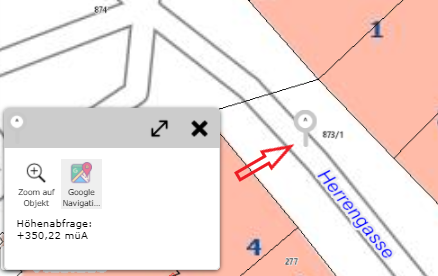
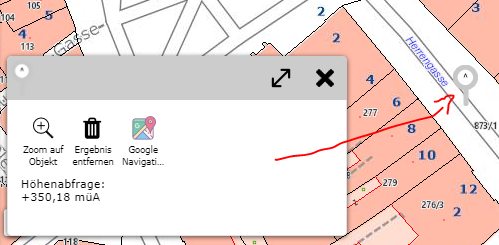
commit

diff --git a/de/webgis-manual/source/mapviewer/tools/clickbubble/index.rst b/de/webgis-manual/source/mapviewer/tools/clickbubble/index.rst
@@ -1,0 +1,60 @@
+Click Bubble
+============
+
+Kurzbeschreibung
+----------------
+
+Anstatt in die Karte zu klicken, ziehe die "Bubble" in die Karte an die gewünschte Position.
+
+
+Detailierte Beschreibung
+------------------------
+
+Manche Werkzeuge erfordern einen Klick in die Karte, z.B. Identifizieren und Auswählen, Zeichnen, usw.
+Da es auf mobilen Geräten mit Touch-Bedienung nicht immer leicht ist an genau die gewünschte Position zu klicken, steht dieses Gadget zur Verfügung.
+Es hilft außerdem die Bedienbarkeit der Karte zu verbessern, da versehentliche Klicks in die Karte bei Zoomen oder Verschieben nicht sofort eine Aktion auslösen.
+        
+.. note::
+    Solange die "Bubble" aktiv ist, wird durch einen Klick in die Karte keine Aktion ausgeführt. Alle Gesten dienen so nur der Navigation in der Karte.
+        
+
+Um das Werkzeug zu verwenden, muss die "Bubble" an die gewünschte Stelle gezogen werden. Sobald die "Bubble" grün wird, ist sie aktiv.
+Das Werkzeug wird nach dem Loslassen direkt an dem Punkt ausgelöst, auf den die rechte obere Spitze zeigt.
+    
+.. image:: img/clickbubble1.png
+
+
+Nach dem Auslösen, kehrt die "Bubble" wieder an ihre Ausgangslage zurück.
+    
+Während des Ziehens werden links noch zwei mit einen "X" gekennzeichneten Bereiche sichtbar.
+        
+.. note::
+    Auf mobilen Geräten mit kleinen Displays kann es sein, dass der graue Bereich aus Platzgründen nicht zur Verfügung steht.
+
+.. image:: img/clickbubble2.png
+
+
+Zieht man die "Bubble" auf einen dieser Bereiche, ändert diese sofort ihre Farbe. Die Farben haben dabei folgende Bedeutungen:
+    
+* **Oranger Bereich** 
+
+    Die "Bubble" soll wieder in den Ruhebereich zurückkehren. Das kann beispielsweise wünschenswert sein, wenn das Ziehen ein Versehen war und keine Aktion ausgelöst werden soll.
+    Legt man die "Bubble" im Orangen Bereich ab, wird keine Aktion ausgelöst.
+
+* **Grauer Bereich**
+
+    Zieht man die "Bubble" in diesen Bereich, wird sie deaktiviert. Wenn die "Bubble" deaktiviert ist, kann ein Werkzeug auch über einen Klick in die Karte ausgelöst werden.
+    Das kann wünschenswert sein, wenn man neben der Gestensteuerung auf dem Gerät auch noch ein weiteres Eingabemedium wie Maus oder Stift verwenden möchte.
+    Will man die "Bubble" wieder aktivieren, kann man sie aus dem grauen Bereich einfach in die Karte ziehen (und so eine Aktion auslösen)
+    oder die "Bubble" in den orangen Bereich ziehen (keine Aktion).
+
+
+Die "Bubble" erscheint auch bei den Zeichen Werkzeugen. Damit können die Stützpunkte einzeln durch Ziehen der "Bubble" gesetzt werden.
+Zusätzlich erscheint bei den Zeichen Werkzeugen noch eine zweite "Bubble" für das Kontextmenü.
+    
+.. image:: img/clickbubble3.png
+
+Die zweite "Bubble" öffnet das Kontextmenü für den (Zeichen)Sketch und entspricht somit der rechten Maustaste. Da es oft entscheidend ist, an welcher Stelle man das Kontextmenü öffnet,
+kann man auch diese "Bubble" an die gewünschte Stelle ziehen, um das Menü zu öffnen. Will man beispielsweise einen Stützpunkt löschen, zieht man die "Bubble" auf den Stützpunkt und wählt
+im Menü "Vertex löschen" aus.
+    

diff --git a/de/webgis-manual/source/mapviewer/tools/map/liveshare/procedure.rst b/de/webgis-manual/source/mapviewer/tools/map/liveshare/procedure.rst
@@ -15,6 +15,10 @@ Zuerst muss der Session Eigentümer eine neue Session beginnen.
 
 Nach dem Beginnen der Session öffnet sich ein Fenster, welches Möglichkeiten zum Teilen der Session bietet.
 
+Außerdem erscheint rechts unten ein Infofenster zur aktuellen Liveshare Session.
+
+.. image:: img/liveshare4.png
+
 
 Session teilen
 --------------
@@ -35,21 +39,41 @@ Es gibt verschiedene Möglichkeiten die Liveshare Session zu teilen:
 
 * **Twitter:** Weiterleitung an Twitter.
 
-Rechts unten erscheint ein Infofenster zur aktuellen Liveshare Session.
-
-.. image:: img/liveshare4.png
-
-Öffnet der Teilnehmer eine der beliebigen Varianten, wird er gefragt ob er der Liveshare Session beitreten will:
 
 
 an Session teilnehmen
 ---------------------
+
+Öffnet der Teilnehmer eine der beliebigen Varianten, wird er gefragt ob er der Liveshare Session beitreten will:
 
 .. image:: img/liveshare5.png
 
 Der Session Eigentümer wird dann aufgefordert jeden neuen Teilnehmer zu bestätigen:
 
 .. image:: img/liveshare6.png
+
+aktive Liveshare Session
+------------------------
+
+Was mit dem Liveshare Werkzeug alles gemacht werden kann, wurde im vorherigen Abschnitt schon näher erläutert. Hier werden die neuen Möglichkeiten beschrieben. 
+
+* **Kartenausschnitt/Themenschaltung teilen**
+
+.. image:: img/liveshare7.png
+
+Ist *Kartenausschnitt teilen* ausgewählt, wird in allen Sessions derselbe Kartenausschnitt angezeigt.
+Ist *Themenschaltung teilen* ausgewählt, werden in allen Sessions dieselben Themen angezeigt.
+
+
+* **Marker setzen**
+
+Jeder Session Teilnehmer kann seinen eigenen Marker setzen. Dazu muss er einfach in die Karte klicken.
+Über ``Aktuelle Position`` kann der Marker auch auf die aktuelle Position gesetzt werden. 
+Mit ``Marker entfernen`` kann der Marker wieder entfernt werden.
+
+.. image:: img/liveshare8.png
+
+.. image:: img/liveshare9.png
 
 
 Session beenden
@@ -62,24 +86,3 @@ Session verlassen
 
 Mit *Session verlassen* können Teilnehmer aus der Liveshare Session aussteigen. Die Session ist dadurch nicht beendet.
 
-
-Kartenausschnitt/Themenschaltung teilen
----------------------------------------
-
-.. image:: img/liveshare7.png
-
-Ist *Kartenausschnitt teilen* ausgewählt, wird in allen Session derselbe Kartenausschnitt angezeigt.
-
-Ist *Themenschaltung teilen* ausgewählt, werden in allen Session dieselben Themen angezeigt.
-
-
-Marker setzen
--------------
-
-Jeder Session Teilnehmer kann seinen eigenen Marker setzen. Dazu muss er einfach in die Karte klicken.
-Über ``Aktuelle Position`` kann der Marker auch auf die aktuelle Position gesetzt werden. 
-Mit ``Marker entfernen`` kann der Marker wieder entfernt werden.
-
-.. image:: img/liveshare8.png
-
-.. image:: img/liveshare9.png

diff --git a/de/webgis-manual/source/mapviewer/tools/sketch/snapping.rst b/de/webgis-manual/source/mapviewer/tools/sketch/snapping.rst
@@ -2,7 +2,7 @@ Snapping
 ========
 
 Über rechte Maustaste (egal ob in Karte oder auf Sketch) und *Snapping ...* kann ausgewählt werden, auf welche Schema der Objektfang (Snapping) aktiviert werden soll.
-Des weiteren kann festgelegt werden, ob nur Kanten, Knoten oder Endpunkt snapbar sind. Snapbare Linien werden dann in gelb dargestellt, wenn man mit der Maus in deren Nähe fahrt.
+Des weiteren kann festgelegt werden, ob nur Kanten, Knoten oder Endpunkt snapbar sind. Snapbare Linien werden dann in gelb dargestellt, wenn man mit der Maus in deren Nähe fährt.
 
 .. image:: img/snapping1.png
 
@@ -15,7 +15,7 @@ Trace-Modus starten
 
 Mit dem *Trace-Modus* können snapbare Kanten verfolgt werden. 
 Dafür muss mit der rechten Maustaste in die Karte geklickt werden und dann *Trace-Modus starten* gewählt werden.
-Nachdem der erste Knoten auf einen Endpunkt der Kante gesetzt wird, kann mit der Maus über Knoten des selben Themas gefahren werden. Es wird dann der kürzeste Weg über die Linien des Themas angezeigt.
+Nachdem der erste Knoten auf einen Endpunkt der Kante gesetzt wurde, kann mit der Maus über Knoten des selben Themas gefahren werden. Es wird dann der kürzeste Weg über die Linien des Themas angezeigt.
 
 Im folgendem Beispiel wurde so eine Linie entlang der Grundstücksgrenze gezeichnet.
 
@@ -65,7 +65,7 @@ Sketch parallel versetzen ...
 
 Mittels *Sketch parallel versetzen ...* kann eine Sketch Linie parallel versetzt werden. 
 Dazu muss, nachdem eine Sketch Linie gezeichnet wurde, mit der rechten Maustaste auf die Seite des Sketches geklick werden, in welche Richtung der Sketch parallel versetzt werden soll.
-Es öffnet sich dann ein Fenster in welchem sich die Distanz auch noch manuell einstellen lassen würde. Als Defaultwert steht die Distanz des Klickes zum Sketch bereits im Feld.
+Es öffnet sich dann ein Fenster, in welchem sich die Distanz auch noch manuell einstellen lassen würde. Als Defaultwert steht die Distanz des Klickes zum Sketch bereits im Feld.
 
 Falls gewisse Vertices nicht verschoben werden sollen, also fixiert werden sollen, kommt die bereits beschriebene Funktion *Vertex fixieren/anschließen* ins Spiel.
 Fixierte Vertices werden nämlich nicht bewegt.

diff --git a/de/webgis-manual/source/mapviewer/tools/sketch/index.rst b/de/webgis-manual/source/mapviewer/tools/sketch/index.rst
@@ -1,7 +1,7 @@
 Sketch/Entwurfswerkzeuge
 ========================
 
-Beim Zeichnen eines Sketches (zB beim Redlining, Editieren, Höhenprofil erstellen, ...) stehen mehrere Werkzeuge zur Verfügung, die je nach Anwendung sehr hilfreich sein können.
+Beim Zeichnen eines Sketches (zB beim Redlining, Editieren, Höhenprofil erstellen, ...) stehen mehrere Optionen zur Verfügung, die je nach Anwendung sehr hilfreich sein können.
 
 Dazu muss während des Zeichnens mit der rechten Maustaste in die Karte geklickt werden. Je nach Typ des Sketches (Linie, Polygon) werden folgende Optionen angeboten:
 
@@ -15,6 +15,9 @@ Dazu muss während des Zeichnens mit der rechten Maustaste in die Karte geklickt
    presentation
 
 
+.. note::
+   Auf (mobilen) Geräten mit Touch Bedienung funktioniert der Klick in der Karte über das *Klick Bubble* Werkzeug (siehe Abschnitt *Click Bubble* unter Werkzeuge).
+   Der Vorteil der *Klick Bubble* ist die Vermeidung von unabsichtlichen Klicks beim Navigieren und die höhere Präzision beim Klicken.
 
 Rückgängig/Undo
 ---------------
@@ -46,7 +49,7 @@ Vertices nennt man die sogenannten Stützpunkte der Linie, welche über verschie
 
 * **Vertex verschieben:** Auf den Vertex klicken und mit gedrückter Maustaste den Vertex beliebig verschieben.
 
-* **Vertex hinzufügen:** Dafür gibt es mehrere Möglichkeiten: in die Karte klicken, über *Richtung/Entfernung* (siehe unten) oder über *Koordinaten (absolut)*.
+* **Vertex hinzufügen:** Dafür gibt es mehrere Möglichkeiten: in die Karte klicken, über *Richtung/Entfernung* (siehe unten) oder über *Koordinaten (absolut)* (siehe Konstruieren).
 
 * **Vertex auf bestehender Linie hinzufügen:** Rechte Maustaste auf die Linie und dann *Vertex hinzufügen* wählen.
 
@@ -68,7 +71,7 @@ Es erscheint dann ein Symbol, mit welchem man dann den Sketch mit gedrückter Ma
 Vertexreihenfolge umkehren
 --------------------------
 
-Mit Vertexreihenfolge umkehren kann bei einem Linien Sketch der Endpunkt mit dem Startpunkt umgekehrt werden. 
+Mit Vertexreihenfolge umkehren kann bei einem Linien Sketch der Endpunkt mit dem Startpunkt umgekehrt werden. Es kann dadurch am anderen Ende der Linie weitergezeichnet werden.
 
 
 

diff --git a/de/webgis-manual/source/mapviewer/tools/presentation/labeling.rst b/de/webgis-manual/source/mapviewer/tools/presentation/labeling.rst
@@ -6,16 +6,15 @@ Mit diesem Werkzeug können Themen noch zusätzlich beschriftet werden.
 .. image:: img/labeling1.png
 
 Dafür muss man zuerst das Thema, welches beschriftet werden soll, auswählen.
-Je nach Thema werden dann die möglichen Beschriftungsfelder angeboten. 
-Welche Felder als Beschriftung verwendet werden können, wird von Kartenautor festgelegt. ????????
+Je nach Thema werden dann die möglichen Beschriftungsfelder angeboten, welche vom Kartenautor festgelegt wurden. 
 
-Die Beschriftungsmethode legt fest, wie oft ein Objekt beschriftet werden soll. 
+Die Beschriftungsmethode legt fest, wie oft ein Objekt beschriftet werden soll:
 
-* **Alles:** Jedes Objekt wird beschriftet.
+* **Alles:** Jedes Objekt wird beschriftet, bei großen Objekten auch öfters.
 
 * **pro Name 1x:** Wenn mehrere Objekte dieselbe Beschriftung haben, wird nur ein Objekt davon beschriftet.
 
-* **pro Objekt 1x:** Jedes Objekt wird nur einmal beschriftet. Dadurch werden insgesamt weniger Beschriftungen angezeigt, ist bei Leitungen oder langen Straßen jedoch nicht zu empfehlen.
+* **pro Objekt 1x:** Jedes Objekt wird nur einmal beschriftet. Dadurch werden eventuell insgesamt weniger Beschriftungen angezeigt. Das ist bei langen Linienobjekten oder großen Flächenobjekten in der Regel nicht zu empfehlen.
 
 
 Des weiteren kann noch der Style definiert werden. Dazu stehen folgende Einstellungsmöglichkeiten zur Verfügung:
@@ -31,4 +30,4 @@ Des weiteren kann noch der Style definiert werden. Dazu stehen folgende Einstell
 
 Mit ``Übernehmen`` wird die gewählte Beschriftung gesetzt und kann über ``Entfernen`` wieder entfernt werden.
 
-Es können beliebig viele weitere Beschriftungen gesetzt werden, jedoch kann immer nur die zuletzt gesetzte Beschriftung wieder entfernt werden.
+Es können beliebig viele weitere Beschriftungen gesetzt werden. Um eine früher gesetzte Beschriftung zu entfernen, muss das dementsprechende Thema gewählt werden und anschließend auf den aufscheinenden ``Entfernen`` Button gedrückt werden.

diff --git a/de/webgis-manual/source/mapviewer/tools/identify/rasterinfo.rst b/de/webgis-manual/source/mapviewer/tools/identify/rasterinfo.rst
@@ -5,9 +5,15 @@ Ist das *Höhenmodell abfragen* Werkzeug gewählt, können durch einfaches Klick
 
 .. image:: img/rasterinfo1.png
 
-.. note:: Es werden immer nur einzelne Messungen durchgeführt und das Ergebnis wird direkt links unten am Bildschirm (Desktop) angezeigt.
+.. note:: Es werden immer nur einzelne Messungen durchgeführt und das Ergebnis wird direkt links unten am Bildschirm (Desktop-Version) angezeigt.
     Wenn die abgefragten Höhen gespeichert oder heruntergeladen werden sollen, muss das *Koordinaten* Abfrage Werkzeug verwendet werden. 
 
-Durch Klicken auf bereits gesetzte Marker wird das Ergebnis wieder angezeigt.
+* **Zoom auf Objekt:** Es wird auf das aktuelle Objekt gezoomt.
+
+* **Ergebnis entfernen:** Aktuelle Ergebnis wird entfernt.
+
+* **Google Navigation:** Weiterleitung zu *Google Maps*, wo man eine Route berechnen und starten kann.
+
+Durch Klicken auf bereits gesetzte Marker wird das Ergebnis erneut angezeigt.
 
 Mittels dem ``Marker entfernen`` Button können alle gesetzten Marker wieder entfernt werden.

diff --git a/de/webgis-manual/source/mapviewer/tools/general/measure-3d.rst b/de/webgis-manual/source/mapviewer/tools/general/measure-3d.rst
@@ -50,7 +50,7 @@ In diesem View gibt es folgende Navigationsmöglichkeiten:
 Rechts unten befindet sich eine Box mit den Lageinformationen zur Mausposition.
 
 
-Durch einfaches Klicken in die Karte wird ein Stützpunkt gesetzt. Werden weitere Stützpunkte wird die Länge in 2D und 3D sowie die Höhendifferenz zwischen den jeweiligen Stützpunkten berechnet. 
+Durch einfaches Klicken in die Karte wird ein Stützpunkt gesetzt. Werden weitere Stützpunkte gesetzt, wird die Länge in 2D und 3D sowie die Höhendifferenz zwischen den jeweiligen Stützpunkten berechnet. 
 
 .. image:: img/meas3d4.png
 
@@ -61,4 +61,4 @@ Gelb hinterlegt ist die Summe der Längen sowie der summierte Höhenunterschied 
 Mit dem ``Undo`` Button kann der zuletzt gesetzte Stützpunkt entfernt werden. Durch einen Klick auf den ``Alle entfernen`` Button werden alle Stützpunkte entfernt.
 
 
-Über das ``X`` rechts oben kann das 3d-Modell wieder geschlossen werden.
+Über das ``X`` rechts oben kann das 3D-Modell wieder geschlossen werden.

diff --git a/de/webgis-manual/source/mapviewer/search_identify/identify.rst b/de/webgis-manual/source/mapviewer/search_identify/identify.rst
@@ -30,7 +30,7 @@ Mit dem *Standard* Werkzeug können folgende Funktion ausgeübt werden:
    Die ersten beiden Punkte funktionieren auch bei fast allen Werkzeugen aus dem Werkzeugkasten.
 
 .. note::
-   Auf (mobilen) Geräten mit Touch Bedienung funktioniert der Klick in der Karte über das *Klick Bubble* Werkzeug (siehe Abschnitt...)
+   Auf (mobilen) Geräten mit Touch Bedienung funktioniert der Klick in der Karte über das *Klick Bubble* Werkzeug (siehe Abschnitt *Click Bubble* unter Werkzeuge).
    Der Vorteil der *Klick Bubble* ist die Vermeidung von unabsichtlichen Klicks beim Navigieren und die höhere
    Präzision beim Klicken.
 
@@ -52,3 +52,4 @@ Wählt man eine Themenebene aus, wird die Abfrage eindeutig und die Ergebnisse w
 .. note::
    Der hier beschrieben Zwischenschritt ist notwendig, weil im Kartenviewer immer nur die Abfrage- und Suchergebnisse
    von genau einer Themenebene gleichzeitig angezeigt werden können.
+   

diff --git a/de/webgis-manual/source/mapviewer/tools/map/downloadmapimage.rst b/de/webgis-manual/source/mapviewer/tools/map/downloadmapimage.rst
@@ -2,7 +2,7 @@ Kartenbild herunterladen
 ========================
 
 Mit diesem Werkzeug kann das aktuelle Kartenbild als JPG oder PNG Format heruntergeladen werden.
-Das Kartenbild wird im Gegensatz zum *Drucken* nicht in ein Kartenbild eingebettet. Dafür besteht die Möglichkeit
+Das Kartenbild wird im Gegensatz zum *Drucken* nicht in ein Drucklayout eingebettet. Dafür besteht die Möglichkeit
 zusätzlich zum Kartenbild ein *WorldFile* für dieses Bild zu erzeugen. Damit kann das Kartenbild in
 GI Anwendungen (ArcGIS, QGIS, ...) geladen werden und wird dadurch an der korrekten geographischen Position 
 eingefügt. Man spricht hier auch von einem georeferenziertem Bild.

diff --git a/de/webgis-manual/source/mapviewer/tools/general/profile.rst b/de/webgis-manual/source/mapviewer/tools/general/profile.rst
@@ -11,7 +11,7 @@ Im Werkzeugdialog muss bestimmt werden, für welchen Fall (Maßstab/Überhöhung
    beispielsweise einen sehr großen Maßstab für einen sehr langen Linienzug, kann die Erstellung des Profils sehr lange
    dauern, weil dann sehr viele Zwischenpunkte abgefragt werden. Im schlimmsten Fall ist die Abfrage gar nicht möglich.
 
-In der kann jetzt eine Linie mit mehreren Zwischenpunkten erstellt werden.
+In der Karte kann jetzt eine Linie mit mehreren Zwischenpunkten erstellt werden.
 
 .. image:: img/profile2.png
 

diff --git a/de/webgis-manual/source/mapviewer/tools/index.rst b/de/webgis-manual/source/mapviewer/tools/index.rst
@@ -25,3 +25,4 @@ beschrieben wurden.
    general/index.rst
    presentation/index.rst
    sketch/index.rst
+   clickbubble/index.rst
